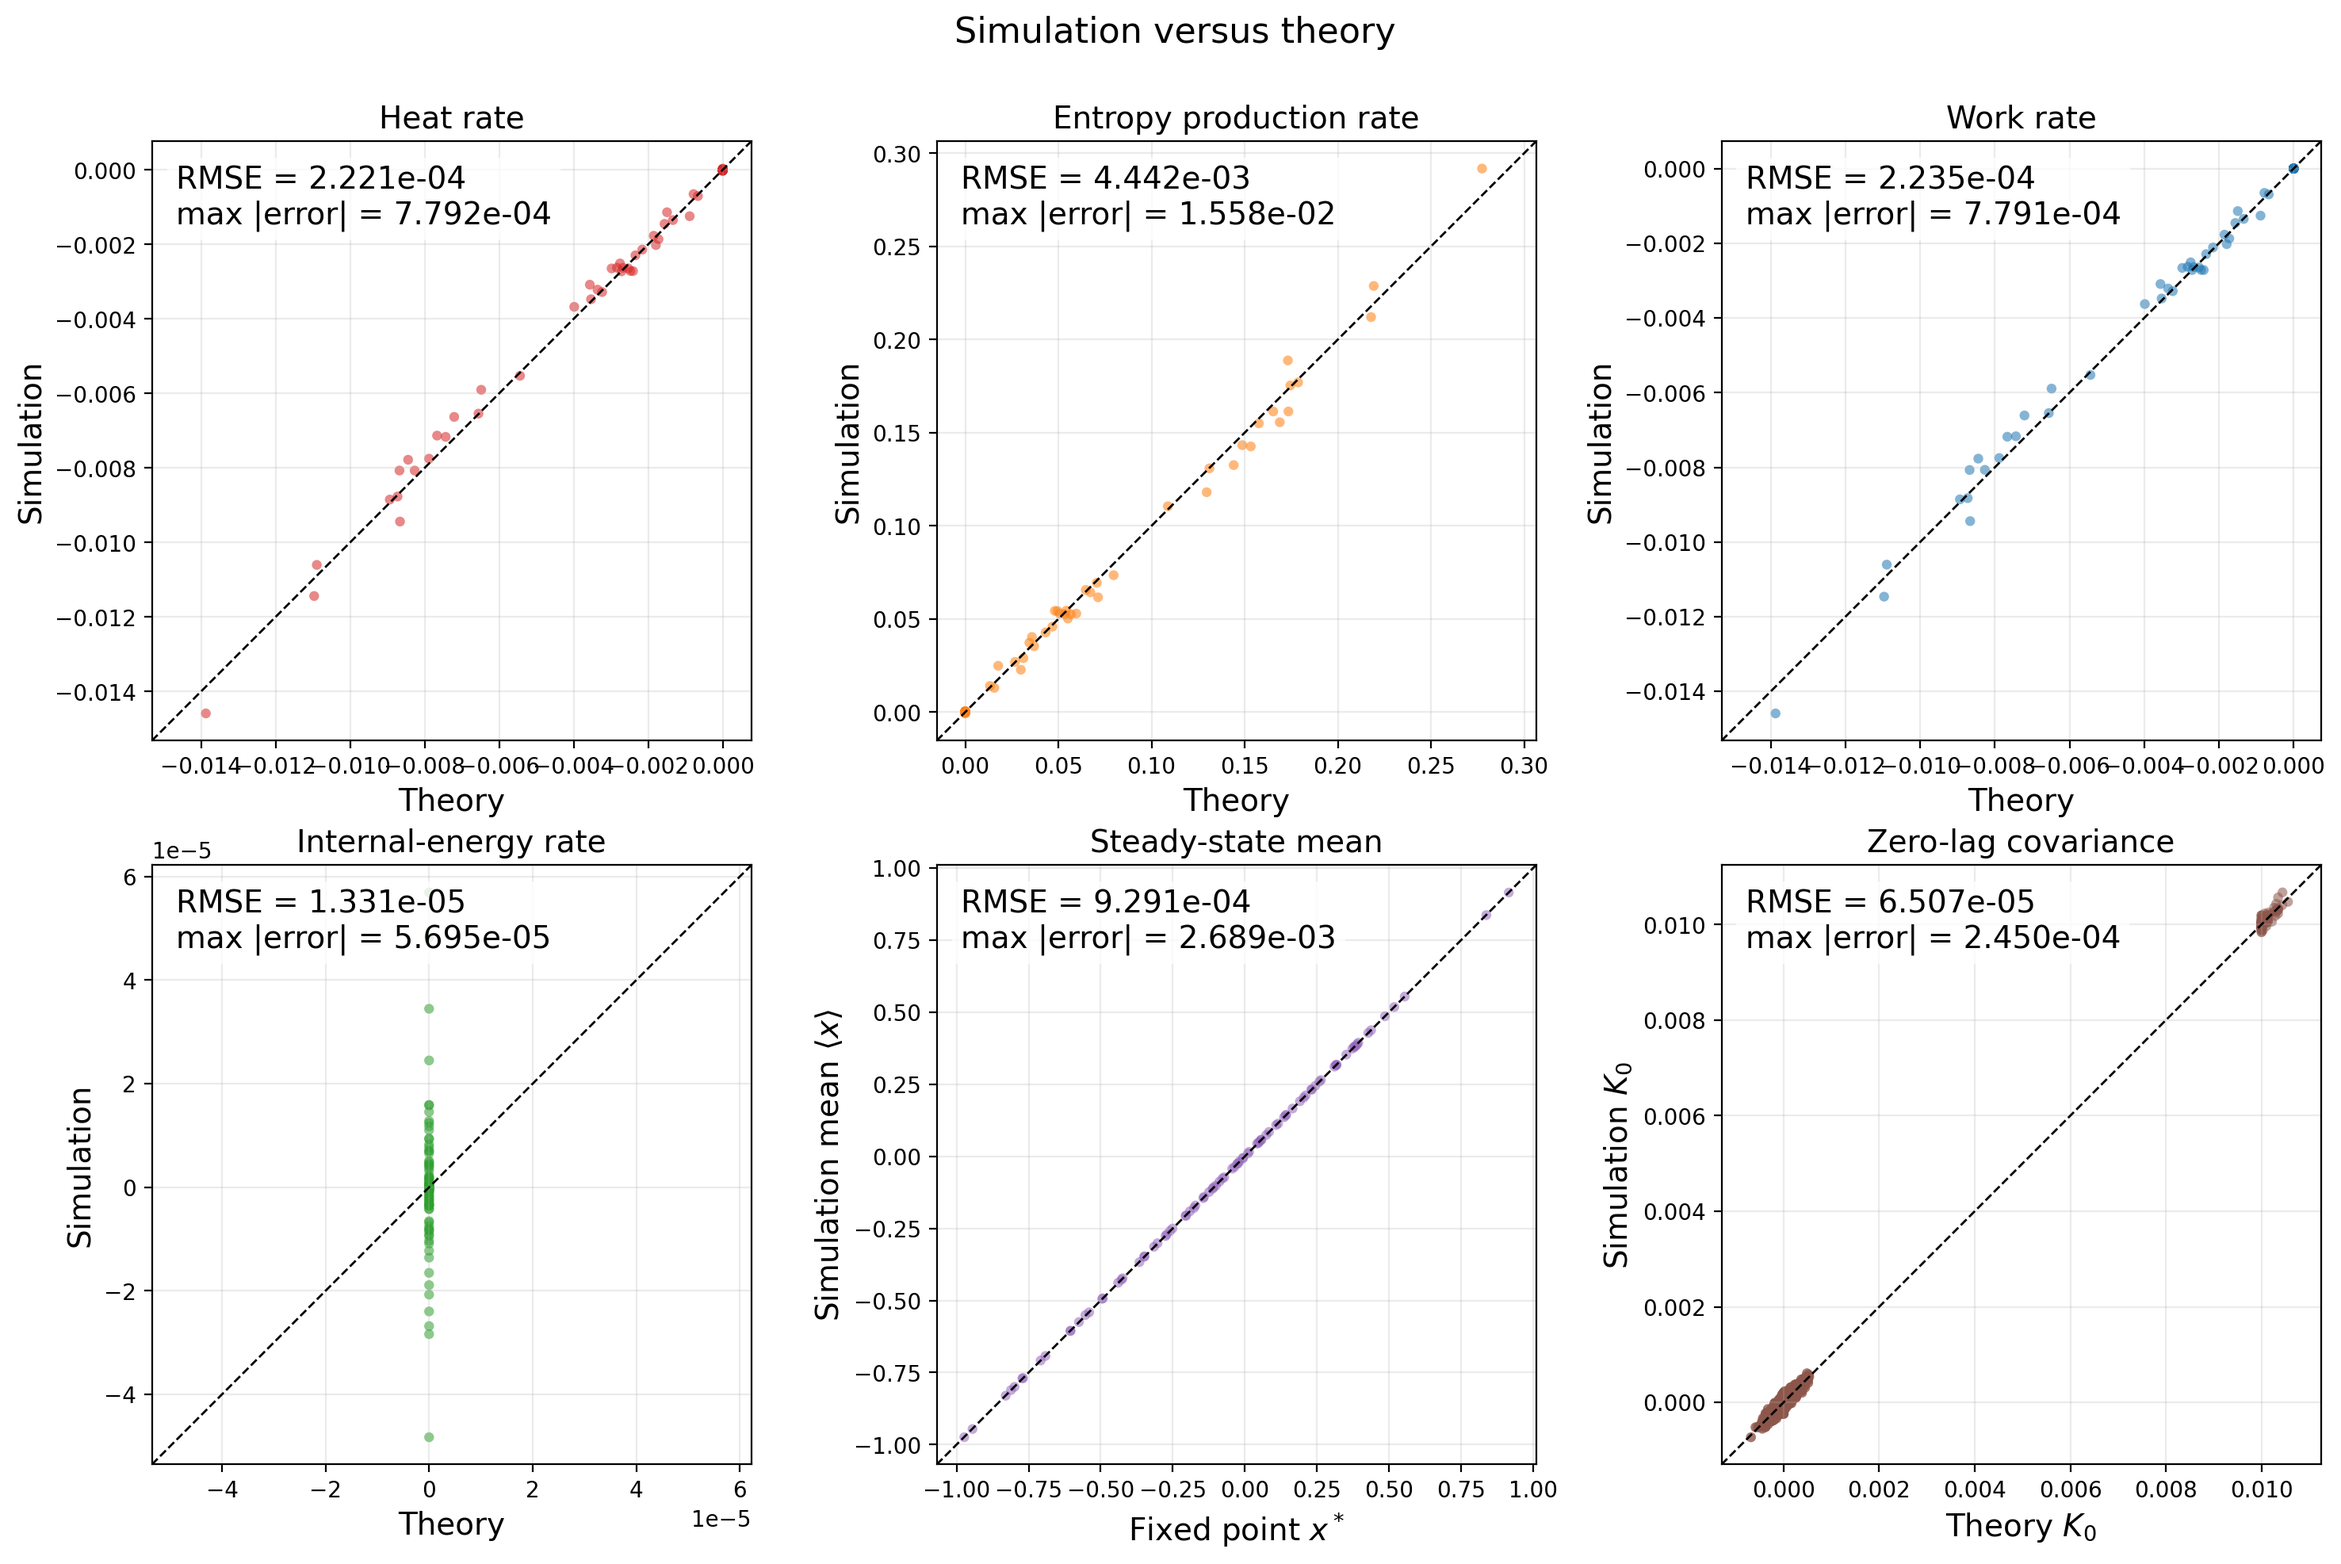
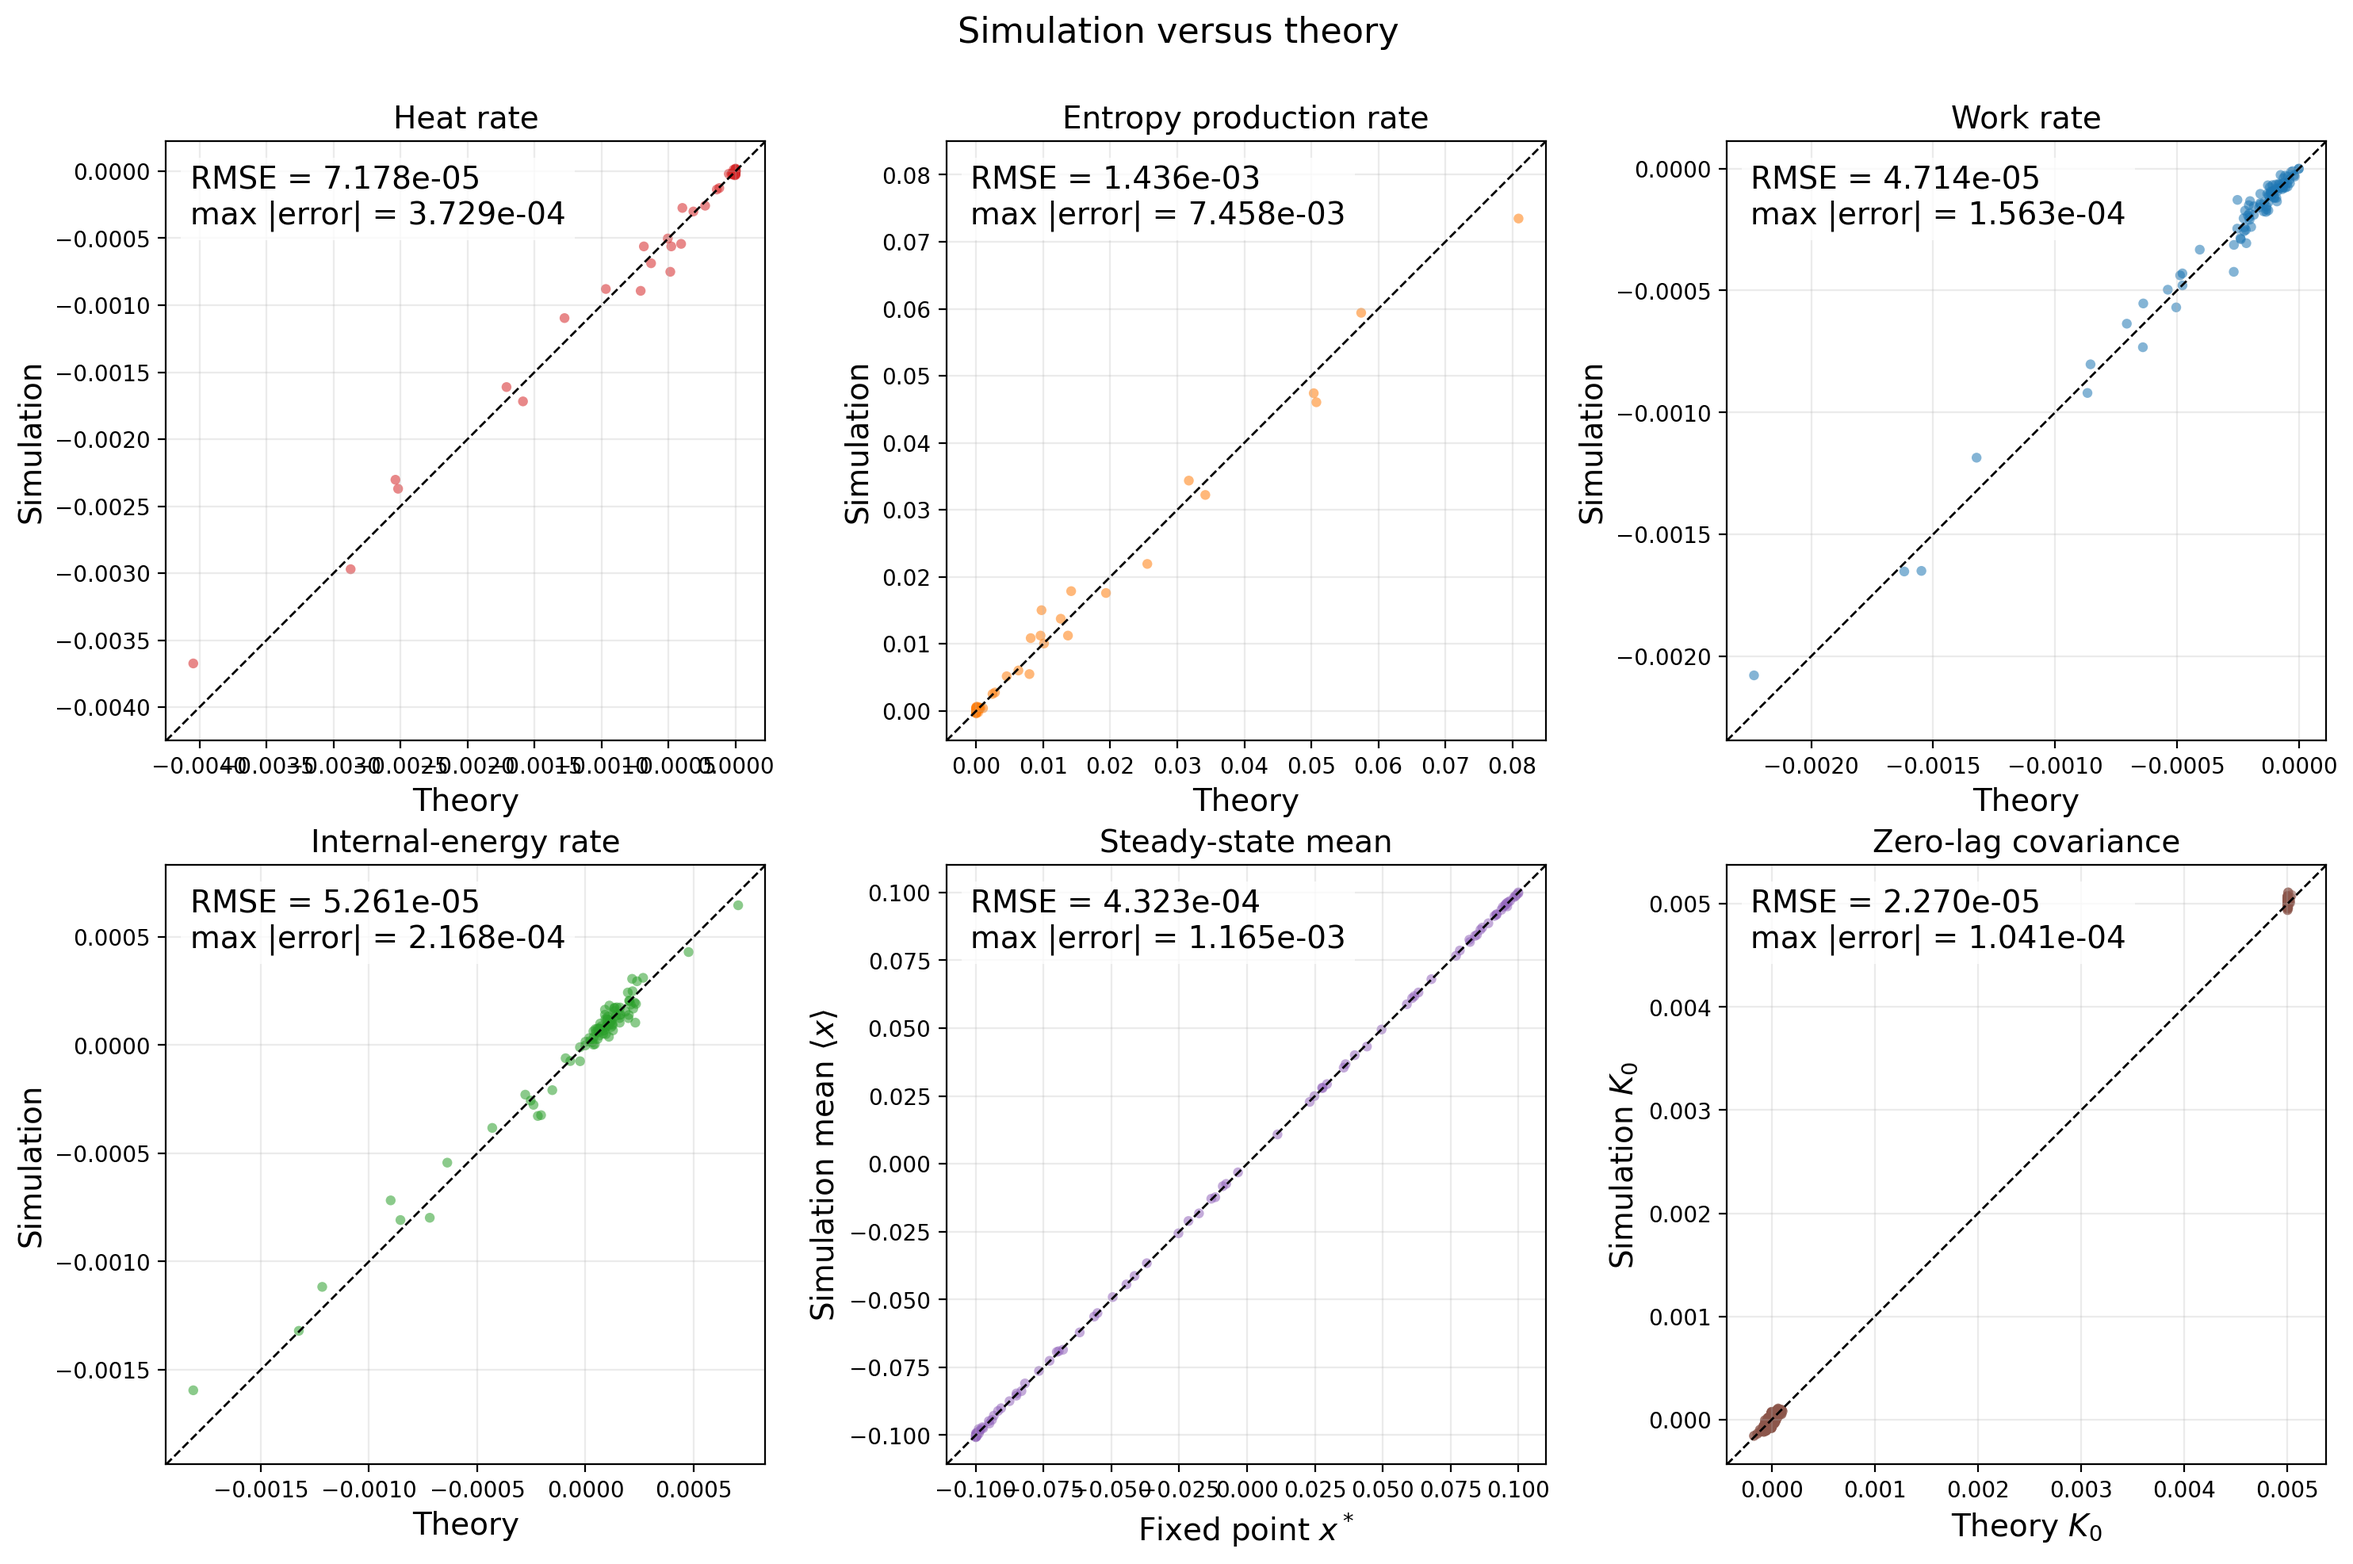
add linear and tanh_input force

diff --git a/README.md b/README.md
@@ -69,6 +69,33 @@ d(delta_x) = Q delta_x dt + noise.
 
 穩態存在的必要條件是 `Q` 為 Hurwitz stable，也就是所有 eigenvalue 的實部都小於零。
 
+### Linear source coupling
+
+設定 `coupling_type = "LINEAR"` 使用 `h(x_i,x_j)=x_j`：
+
+```text
+F(x) = -R x + bias + W x,
+Q = -R + W,
+Q x* = -bias.
+```
+
+此模式的 covariance 與 S/A energetics 理論是精確的線性穩態結果。
+一般網路必須確認 Q 的特徵值實部皆為負；無 self-loop 的 feed-forward
+FCNN 則只需每個 r_i > 0。支援現有 WEIGHT、BIAS、BOTH shuffle，
+其中 bias permutation 不改變 Q 或穩態理論 energetics。
+
+### TANH applied to summed inputs
+
+設定 `coupling_type = "TANH_INPUT"` 使用
+`F(x) = -R*x + tanh(W*x + bias)`。Bias 在 tanh 裡。
+先以 damped Newton 求固定點 x*，再計算 u*=W*x*+bias，
+Jacobian 為 Q=-R+D*W，其中 D_ii=sech(u_i*)^2（按列縮放）。
+無 self-loop 時 Q_ii=-r_i。此模式支援 WEIGHT、BIAS、BOTH shuffle，
+每次重新求 trial 固定點及 Jacobian。
+軌跡使用完整非線性力；simulation/theory energetics 沿用固定點
+Jacobian 的 S/A 分解，因此仍是線性化 energetics。
+CSV、layer mapping 及 Python 圖的格式不變。
+
 ### Nonlinear TANH dynamics
 
 TANH coupling 使用
@@ -289,7 +316,7 @@ fpm test --profile debug \
 | `r_std` | 已保留但目前未套用到 `r` |
 | `weight_mean` | ER 與程式內 FCNN weight 的平均值 |
 | `weight_std` | ER 與程式內 FCNN weight 的標準差 |
-| `coupling_type` | `DIFFUSIVE` 或 `TANH` |
+| `coupling_type` | `DIFFUSIVE`、`LINEAR`、`TANH` 或 `TANH_INPUT` |
 | `bias_mode` | `AUTO`、`ZERO`、`RANDOM` 或 `FILE` |
 | `bias_file` | `FILE` 模式讀取的 bias data 路徑 |
 | `bias_mean` | random bias 的平均值 |
